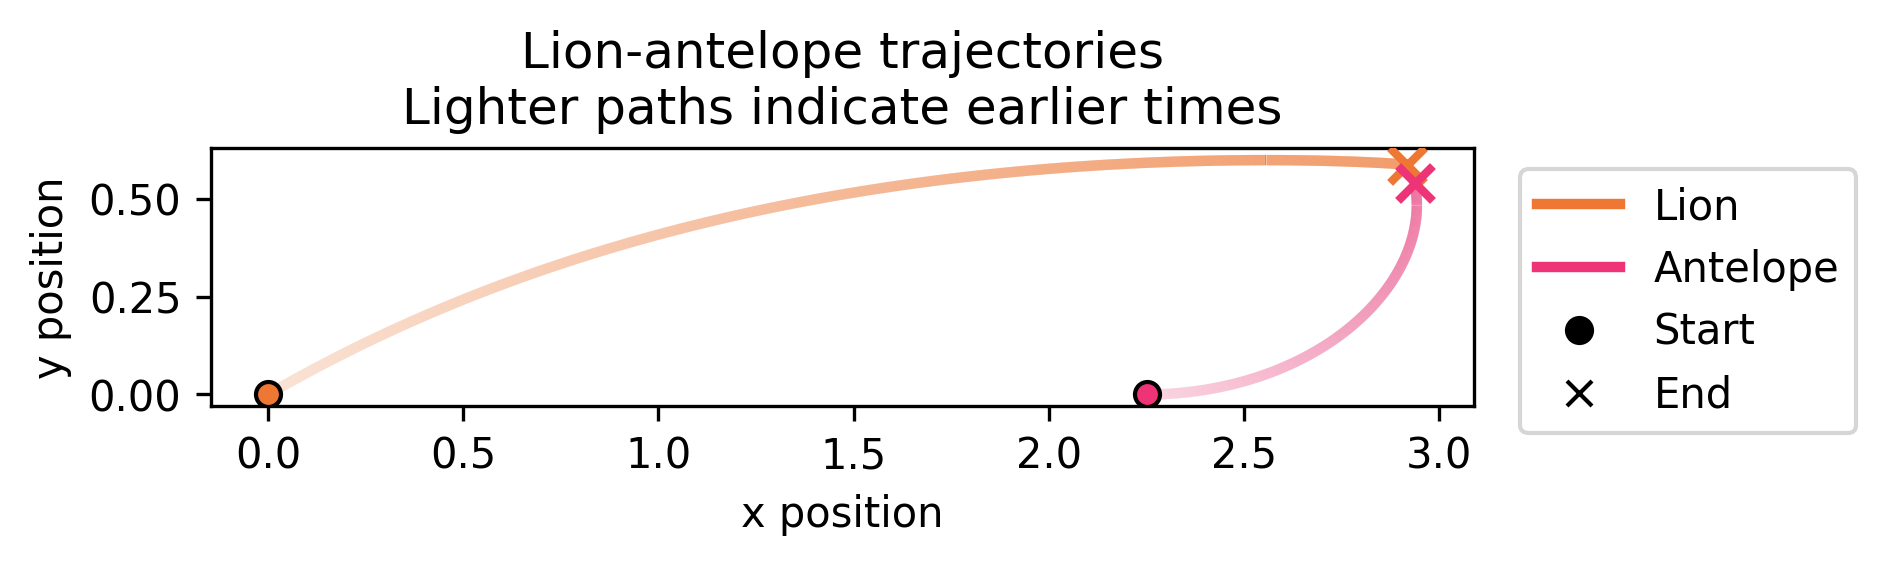
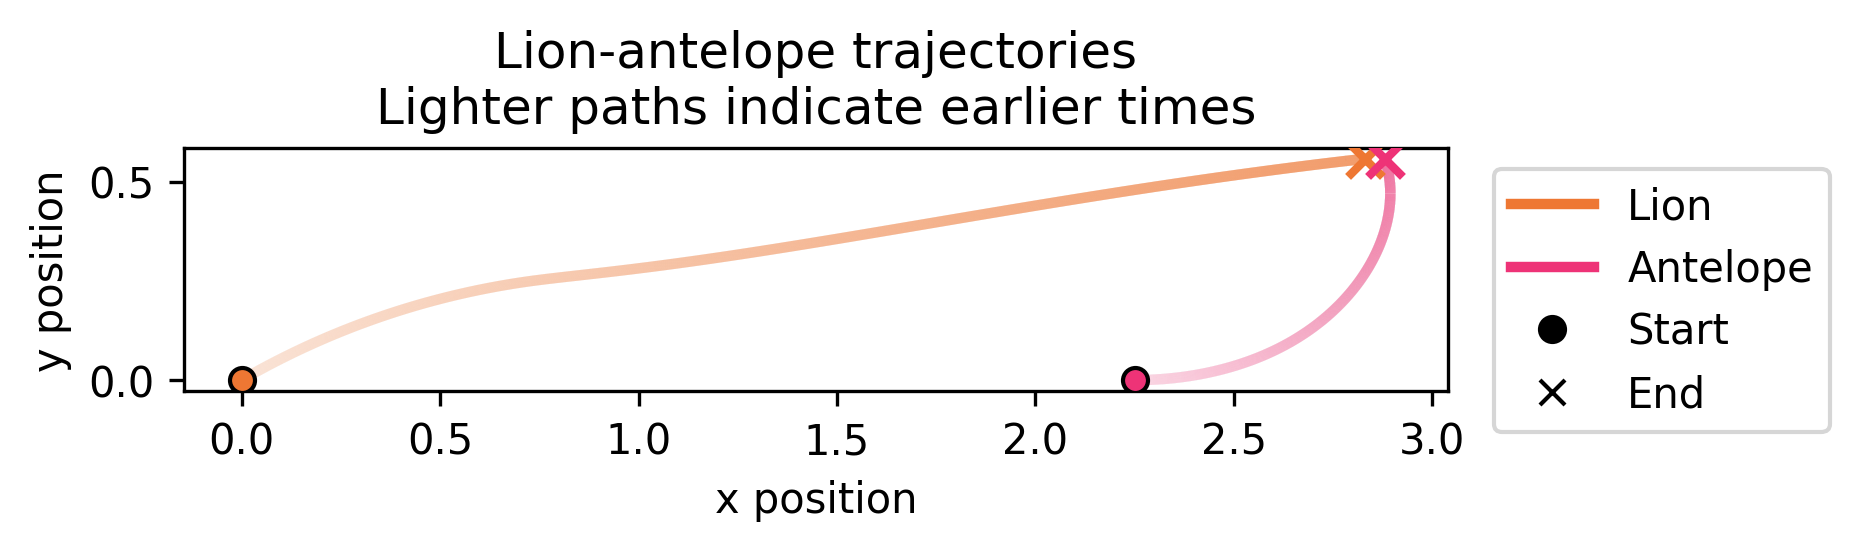
wtf run

diff --git a/challenge.py b/challenge.py
@@ -35,7 +35,54 @@ x0          = [0, 0, np.pi / 6, 2.25, 0, 0]
 vL          = 2
 r_collision = 0.05
 
-JL_bench = J_cw_lion
+import math
+
+def J_lion(t, x):
+    x_L, y_L, theta_L, x_A, y_A, theta_A = x
+    
+    v_L = 2.0
+    v_A = 1.0 / (1.0 + t**2)
+    
+    dx = x_A - x_L
+    dy = y_A - y_L
+    dist_sq = dx**2 + dy**2
+    
+    # If we are practically on top of it, just aim directly to avoid division by tiny numbers
+    if dist_sq < 0.01:
+        target_angle = math.atan2(dy, dx)
+        angle_diff = (target_angle - theta_L + math.pi) % (2 * math.pi) - math.pi
+        return max(min(5.0 * angle_diff, 1.0), -1.0)
+    
+    # Calculate velocity vectors
+    vx_L = v_L * math.cos(theta_L)
+    vy_L = v_L * math.sin(theta_L)
+    vx_A = v_A * math.cos(theta_A)
+    vy_A = v_A * math.sin(theta_A)
+    
+    # Relative velocity
+    dvx = vx_A - vx_L
+    dvy = vy_A - vy_L
+    
+    # Calculate the Line of Sight (LOS) angle
+    los_angle = math.atan2(dy, dx)
+    
+    # Calculate the rate of change of the LOS angle (omega)
+    # Derived from the cross product of relative position and relative velocity
+    los_rate = (dx * dvy - dy * dvx) / dist_sq
+    
+    # Navigation Gain (N). Standard missile values are 3.0 to 5.0.
+    N = 4.0 
+    
+    # Aim at the target, but add a massive lead angle based on how fast the target is drifting
+    target_angle = los_angle + N * los_rate
+    
+    angle_diff = (target_angle - theta_L + math.pi) % (2 * math.pi) - math.pi
+    
+    J = 5.0 * angle_diff
+    
+    return max(min(J, 1.0), -1.0)
+
+JL_bench = J_lion
 JA_bench = J_cw_ante
 
 if TEAM not in ("lion", "antelope"):
@@ -51,6 +98,19 @@ def collision_event(t, x):
 
 collision_event.terminal = True
 
+# # we are so goated
+# def J_strategy(t, x):
+#     """Your strategy must be a valid steering rate, implement it here.
+
+#     As usual, the inputs are:
+#         x = [xL, yL, phiL, xA, yA, phiA], with angles in radians
+#         t = time,
+#     Remember to obey the steering constraints from the assignment instructions.
+#     """
+#     # YOUR CODE HERE
+#     return -J_cw_ante(t,x)
+#     raise NotImplementedError()
+
 def J_strategy(t, x):
     """Your strategy must be a valid steering rate, implement it here.
 
@@ -60,7 +120,38 @@ def J_strategy(t, x):
     Remember to obey the steering constraints from the assignment instructions.
     """
     # YOUR CODE HERE
-    return -J_cw_ante(t,x)
+    xL, yL, phiL, xA, yA, phiA = x
+    critical_d = 1.5
+    J_multiplier = 10
+    
+    dx = xL - xA
+    dy = yL - yA
+    d = np.hypot(xL, yL)
+    
+    lion_sight_angle = np.arctan2(dy, dx)
+    
+    wrap = ((lion_sight_angle - phiL + math.pi) % (2 * math.pi)) - math.pi
+    
+    if wrap >= 0:
+        juke_direction = 1
+    else:
+        juke_direction = -1
+        
+
+    target_angle = lion_sight_angle + juke_direction * (math.pi / 2)
+        
+    angle_diff_wrap = (target_angle - phiA + math.pi) % (2 * math.pi) - math.pi
+    
+    J = J_multiplier * angle_diff_wrap
+    
+    if (J > 2.0): 
+        result_J = 2.0
+    elif (J < -2.0): 
+        result_J = -2.0
+    else:
+        result_J = J
+    
+    return result_J
     raise NotImplementedError()
 
 def simulator(JL, JA):
